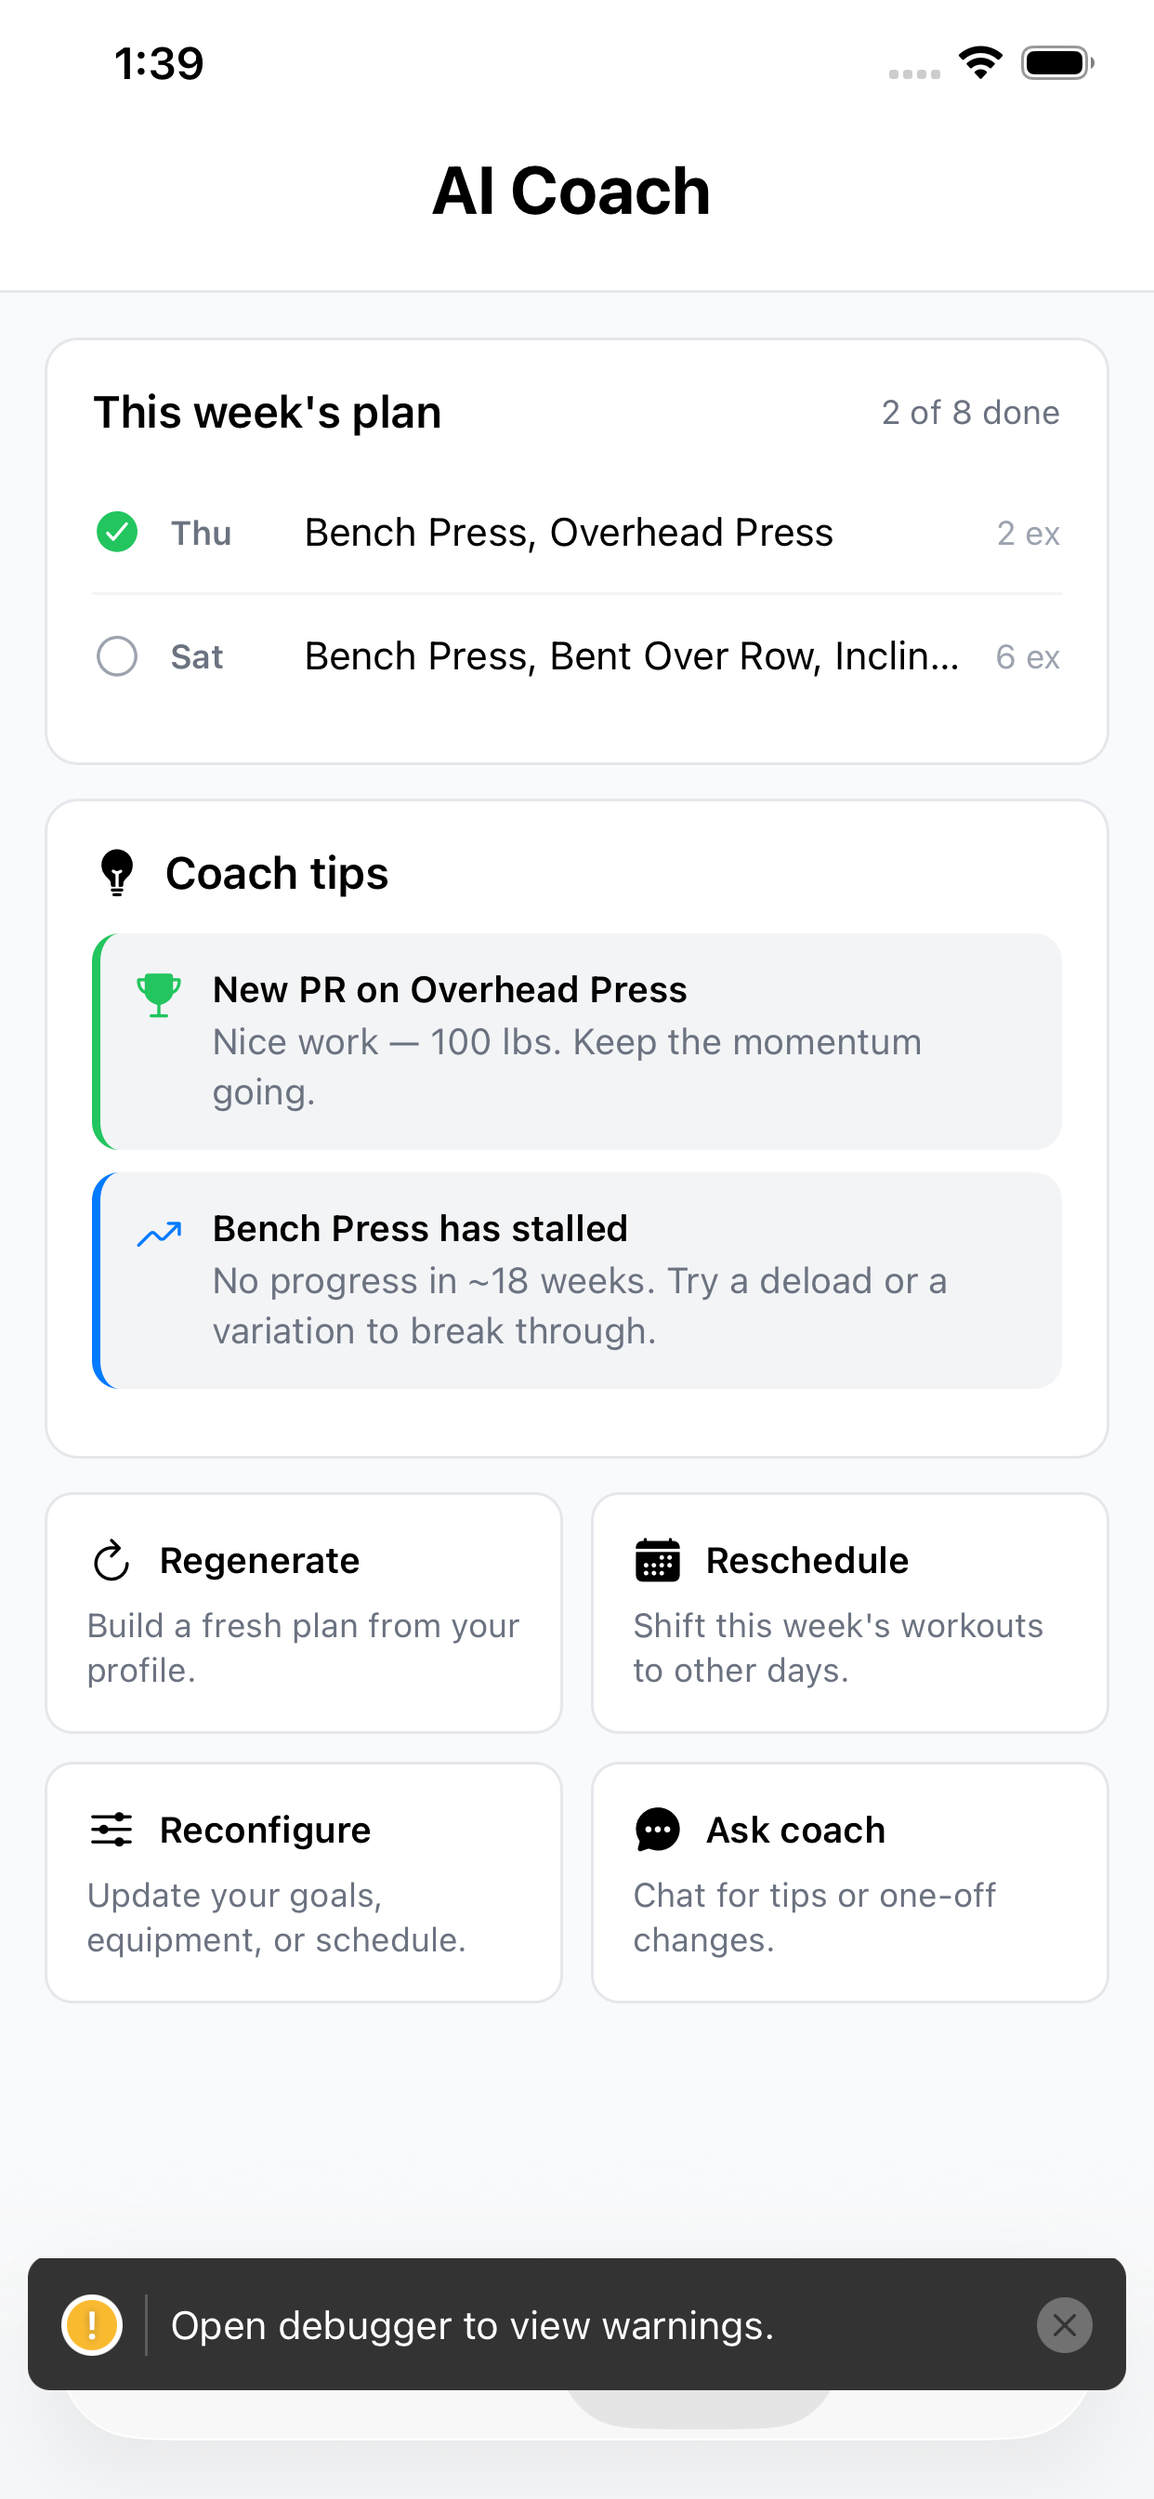
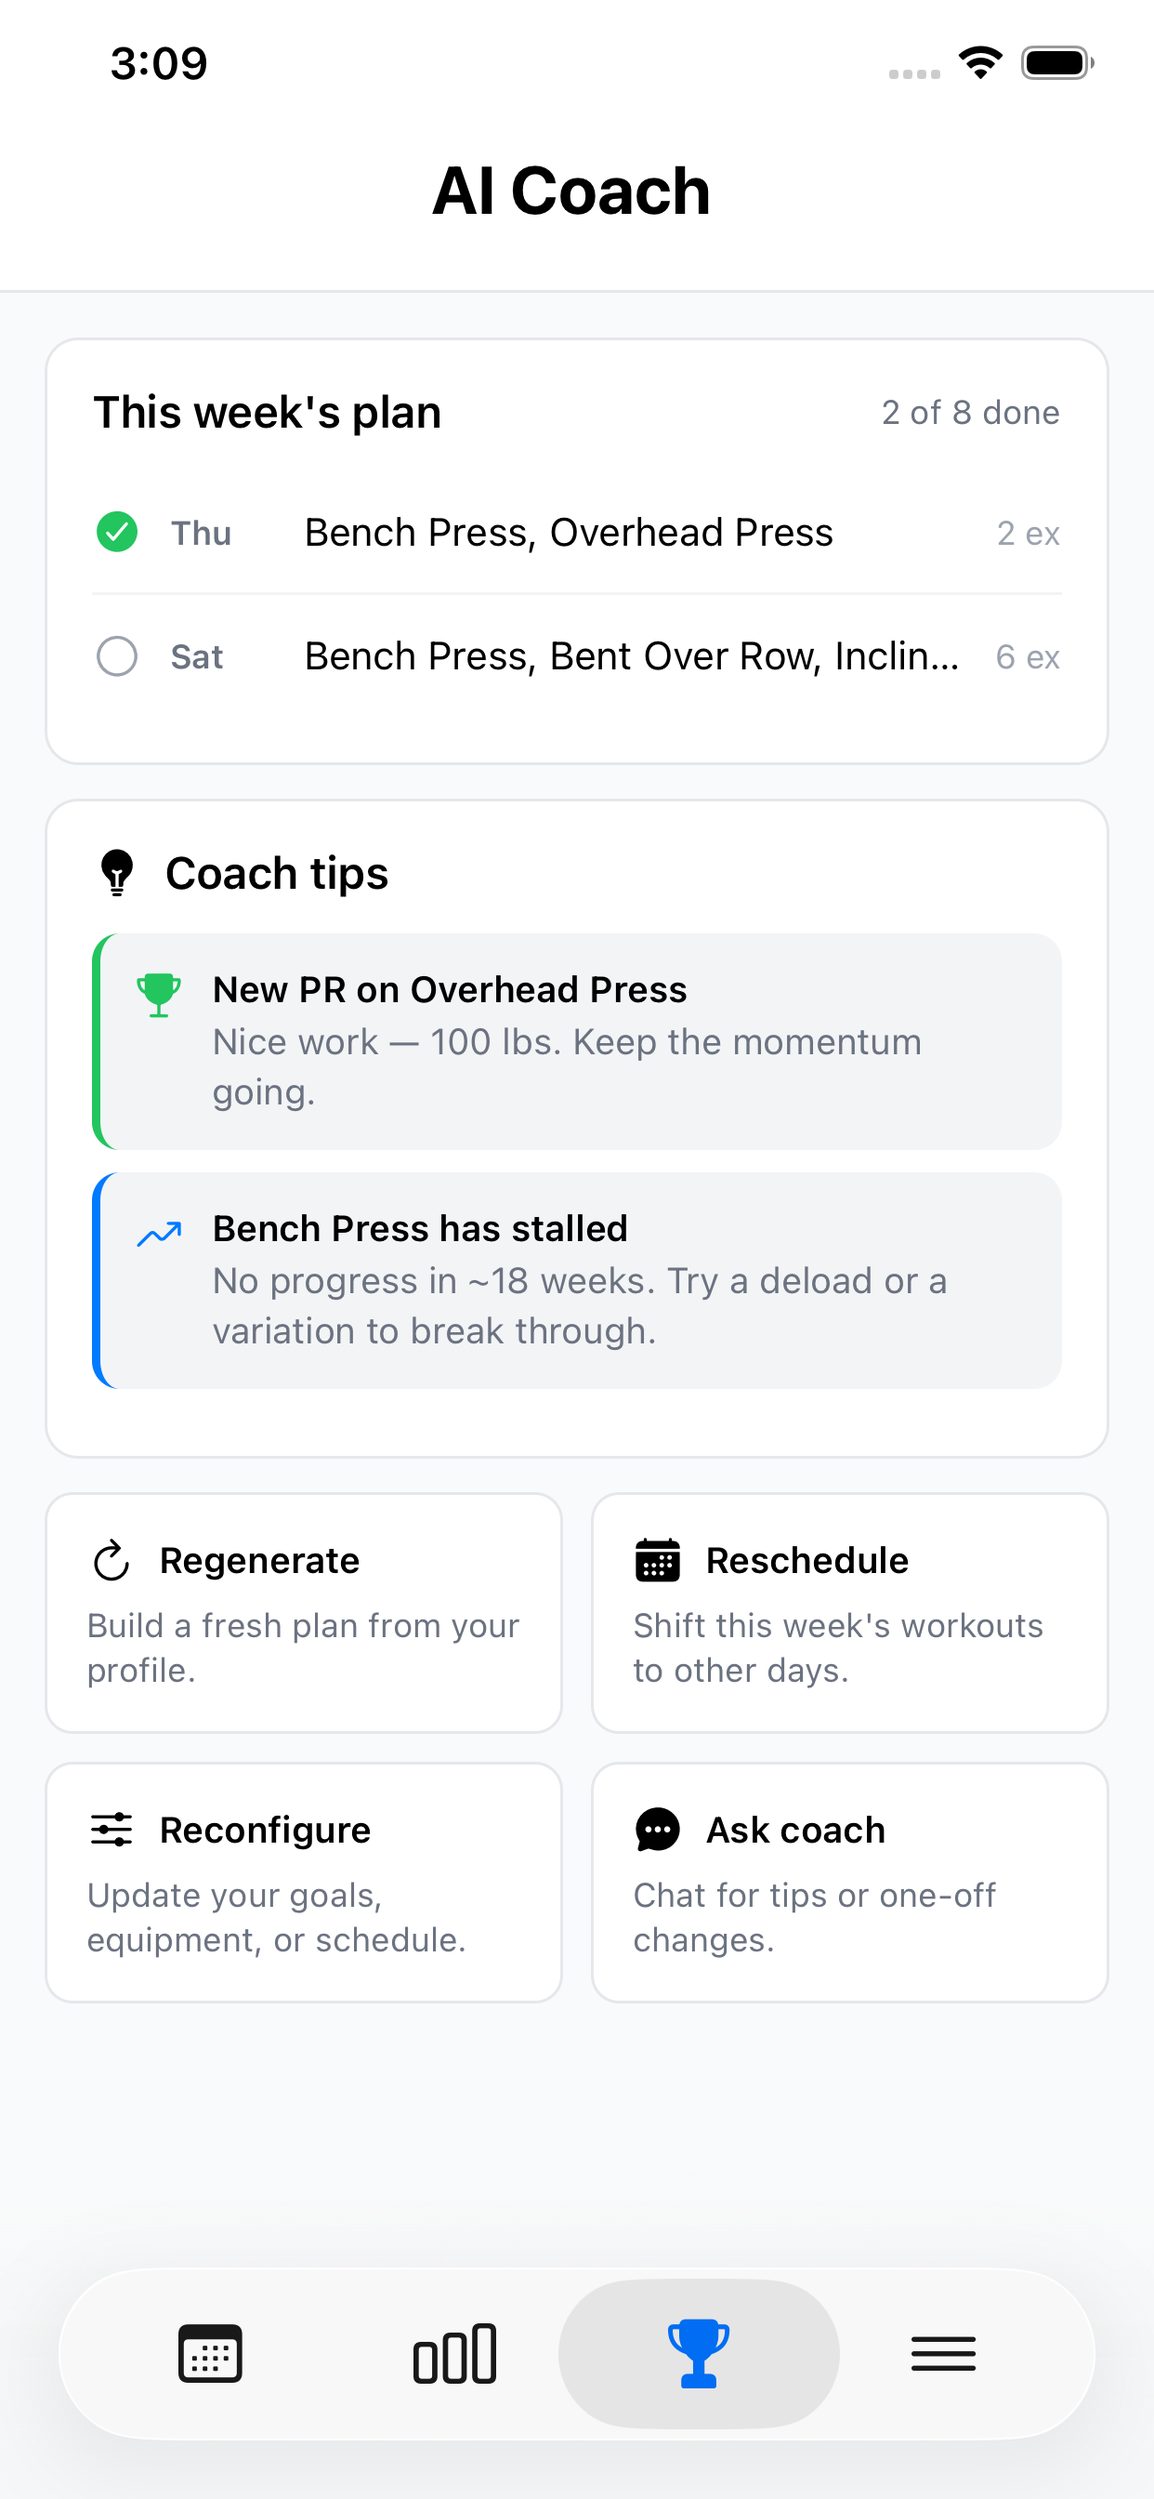
Polish Rhythm case study presentation

Changed region(s): [[0.0, 0.9062, 0.9791, 0.9688], [0.0918, 0.0, 0.1836, 0.0312]]

diff --git a/app/work/rhythm-fit/page.tsx b/app/work/rhythm-fit/page.tsx
@@ -10,7 +10,7 @@ import { getCaseStudy } from "@/lib/case-studies";
 export const metadata: Metadata = {
   title: "Rhythm Fit: AI workout planning from goals to execution",
   description:
-    "How I designed and built a React Native workout tracker with AI planning, accessible controls, and reliable workout execution.",
+    "A React Native workout tracker with AI planning, accessible controls, and reliable workout execution.",
 };
 
 const RhythmFitCaseStudy = () => {
@@ -20,16 +20,14 @@ const RhythmFitCaseStudy = () => {
     <CaseStudyLayout study={study}>
       <CaseSection title="Overview">
         <p>
-          Rhythm Fit is the workout app I wanted in the gym. It is quick
-          between sets, can plan a full training block, and stays out of the
-          way during a workout. You can ask the coach, schedule a plan, log
-          each set, and decide what comes next without switching apps.
+          Rhythm Fit is the workout app I wanted in the gym. It plans training
+          blocks, logs sets quickly, and stays out of the way during a workout.
+          The coach, schedule, and workout log live in one app.
         </p>
         <p>
           I designed and built the React Native app, interaction system, and
-          Node/Supabase backend. Gyms shaped the frontend decisions. Signal
-          drops, attention is limited, and most actions happen one-handed. The
-          UI uses clear hierarchy, large targets, and immediate feedback.
+          Node/Supabase backend. Real gym use shaped the UI: clear hierarchy,
+          large targets, immediate feedback, and reliable one-handed actions.
         </p>
       </CaseSection>
 
@@ -41,101 +39,93 @@ const RhythmFitCaseStudy = () => {
 
         <CaseSection title="AI that becomes product UI">
           <p>
-            Plan creation starts with a focused intake instead of an empty chat
-            box. It collects goals, experience, equipment, schedule, and
-            limitations. Users review every answer before generating a plan.
+            Plan creation starts with a focused intake for goals, experience,
+            equipment, schedule, and limitations. Users review every answer
+            before generating a plan.
           </p>
           <p>
-            The model returns a scheduling tool call. Typed application code
-            validates the result, expands recurring weeks, creates sets and
-            supersets, then saves it through the same Redux model used for
-            manual workouts. The result is normal, editable app data.
+            The model returns a scheduling tool call. Typed code validates it,
+            expands recurring weeks, creates sets and supersets, then saves
+            editable data through the same Redux model as manual workouts.
           </p>
           <RhythmScreenshot
             id="intake"
             alt="Rhythm Fit review screen for an AI-generated workout plan"
-            caption="The review step shows every planning input before generation. Users can fix a goal, schedule, equipment choice, or constraint without starting over."
+            caption="Every planning input is reviewable before generation, so changes never require starting over."
           />
         </CaseSection>
 
         <CaseSection title="A coach grounded in real training">
           <p>
             The coach uses recent workouts, records, stalled lifts, and the
-            active plan as context. A question like “How should I progress?”
-            gets an answer based on the weight and reps already on screen.
+            active plan. “How should I progress?” gets an answer based on the
+            weight and reps already on screen.
           </p>
           <p>
-            Guidance appears as it arrives. The UI handles loading, partial
-            answers, errors, and retries without jumping the scroll position.
-            Screen readers announce the completed answer once.
+            The UI handles partial answers, errors, and retries without jumping
+            the scroll position. Screen readers announce the final answer once.
           </p>
           <p>
-            The prompt system has a stable, versioned instruction layer and a
-            bounded snapshot of user context. User data stays isolated as
-            untrusted input. Long conversations are summarized, token budgets
-            scale by task, and scheduling output is validated before it reaches
-            the calendar.
+            The prompt system combines versioned instructions with a bounded
+            context snapshot. User data stays isolated as untrusted input.
+            Conversations are summarized, token budgets scale by task, and
+            scheduling output is validated before reaching the calendar.
           </p>
           <RhythmScreenshot
             id="chat"
             alt="Rhythm Fit AI Coach giving plan-aware progression advice"
-            caption="Answers render as they arrive while the scroll position stays put. Reduced motion and one final screen-reader announcement keep the chat calm."
+            caption="Answers arrive without moving the scroll position. Reduced motion and one final screen-reader announcement keep chat calm."
           />
         </CaseSection>
 
         <CaseSection title="Local-first where it matters">
           <p>
             The AI coach needs a connection. A saved workout does not. Redux
-            updates the screen immediately, AsyncStorage saves the change, and
-            account sync runs in the background. Failed writes wait in a retry
-            queue.
+            updates immediately, AsyncStorage persists the change, and account
+            sync runs in the background with a retry queue.
           </p>
           <p>
-            This boundary is intentional. Planning can show a network state.
-            Checking off a set should never stall because reception is bad.
+            Planning can show a network state. Checking off a set should never
+            stall because reception is bad.
           </p>
           <RhythmScreenshot
             id="execution"
             alt="Rhythm Fit workout execution screen"
-            caption="Set completion updates Redux and AsyncStorage immediately. Account sync follows in the background."
+            caption="Set completion updates Redux and AsyncStorage immediately. Account sync follows."
           />
         </CaseSection>
 
         <CaseSection title="Progress becomes useful feedback">
           <p>
-            Completed workouts feed the stats dashboard. It tracks records,
-            volume, consistency, muscle balance, and exercise history across
-            several time ranges.
+            Completed workouts feed records, volume, consistency, muscle
+            balance, and exercise history across several time ranges.
           </p>
           <p>
-            The coach uses the same data for timely tips. It can celebrate a
-            new PR or suggest a change when a lift stalls. Logging, analysis,
-            and planning stay in one loop.
+            The coach uses the same data to celebrate a PR or suggest a change
+            when a lift stalls. Logging, analysis, and planning stay connected.
           </p>
           <RhythmScreenshot
             id="stats"
             alt="Rhythm Fit workout analytics with records, volume, and consistency"
-            caption="PRs, volume trends, muscle balance, and top exercises all come from the activity records created during a workout."
+            caption="PRs, volume trends, muscle balance, and top exercises come directly from workout records."
           />
         </CaseSection>
 
         <CaseSection title="Accessibility is interaction design">
           <p>
-            Accessibility had its own acceptance criteria from the start. That
-            covered WCAG 2.2 AA targets and contrast, labels, roles, focus
-            order, visible state, and reduced motion. I tested each flow in
-            both themes and with dynamic coach output.
+            Accessibility had acceptance criteria from the start: WCAG 2.2 AA
+            targets and contrast, labels, roles, focus order, visible state,
+            and reduced motion. I tested every flow in both themes.
           </p>
           <p>
-            Large controls and clear completion states also help in a busy gym.
-            Rhythm can follow the system appearance or stay in Light or Dark
-            mode. Its interaction patterns follow Apple&apos;s Human Interface
-            Guidelines.
+            Large controls and clear states also help in a busy gym. Rhythm can
+            follow the system appearance or stay in Light or Dark mode. Its
+            patterns follow Apple&apos;s Human Interface Guidelines.
           </p>
           <RhythmScreenshot
             id="coach-dashboard"
             alt="Rhythm Fit coach dashboard with large labeled controls"
-            caption="Large labeled targets, clear state, AA contrast, and reduced motion support one-handed use between sets."
+            caption="Large targets, clear state, AA contrast, and reduced motion support one-handed use."
           />
         </CaseSection>
 
@@ -152,7 +142,7 @@ const RhythmFitCaseStudy = () => {
           <RhythmScreenshot
             id="calculator"
             alt="Rhythm Fit plate calculator showing a 185-pound barbell setup"
-            caption="The plate calculator uses configured barbells and available plates to build a per-side loading plan."
+            caption="Configured barbells and available plates produce a per-side loading plan."
           />
         </CaseSection>
       </RhythmThemeProvider>

diff --git a/components/site/rhythm-feature-gallery.tsx b/components/site/rhythm-feature-gallery.tsx
@@ -6,6 +6,8 @@ import {
   createContext,
   type ReactNode,
   useContext,
+  useEffect,
+  useRef,
   useState,
 } from "react";
 
@@ -60,10 +62,25 @@ const useRhythmTheme = () => {
 
 export const RhythmThemeProvider = ({ children }: { children: ReactNode }) => {
   const { theme: siteTheme } = useTheme();
-  const [localTheme, setLocalTheme] = useState<AppTheme | null>(null);
-  const theme: AppTheme = localTheme ?? (siteTheme === "dark" ? "dark" : "light");
+  const [localSelection, setLocalSelection] = useState<{
+    theme: AppTheme;
+    siteTheme: AppTheme;
+  } | null>(null);
+  const previousSiteTheme = useRef(siteTheme);
+  const theme: AppTheme =
+    localSelection?.siteTheme === siteTheme
+      ? localSelection.theme
+      : siteTheme;
 
-  const setTheme = (nextTheme: AppTheme) => setLocalTheme(nextTheme);
+  useEffect(() => {
+    if (previousSiteTheme.current !== siteTheme) {
+      previousSiteTheme.current = siteTheme;
+      setLocalSelection(null);
+    }
+  }, [siteTheme]);
+
+  const setTheme = (nextTheme: AppTheme) =>
+    setLocalSelection({ theme: nextTheme, siteTheme });
 
   return (
     <RhythmThemeContext.Provider value={{ theme, setTheme }}>
@@ -99,25 +116,24 @@ const screens = [
     id: "coach-dashboard",
     alt: "Rhythm Fit AI Coach dashboard showing this week's generated plan",
     caption:
-      "The coach dashboard puts the active plan beside useful signals such as a new PR or a stalled lift.",
+      "The active plan sits beside useful signals such as a new PR or stalled lift.",
   },
   {
     id: "calendar",
     alt: "Rhythm Fit weekly calendar populated with an AI-generated workout",
-    caption:
-      "A generated plan becomes dated exercises, supersets, and trackable progress.",
+    caption: "A generated plan becomes scheduled exercises and supersets.",
   },
   {
     id: "execution",
     alt: "Rhythm Fit bench press execution screen with AI-programmed sets, reps, and weight",
     caption:
-      "Each workout moves into a focused set-by-set view with a timer and plate calculator nearby.",
+      "A focused set-by-set view keeps the timer and plate calculator nearby.",
   },
   {
     id: "chat",
     alt: "Rhythm Fit AI Coach explaining how to progress a bench press workout",
     caption:
-      "The coach answers progression questions using the weight and reps already in the plan.",
+      "The coach answers using the weight and reps already in the plan.",
   },
 ] as const;
 
@@ -150,7 +166,7 @@ export const RhythmFeatureGallery = () => {
                 type="button"
                 aria-pressed={selected}
                 onClick={() => setTheme(option)}
-                className={`rounded-full px-4 py-2 text-sm font-bold capitalize transition-colors ${
+                className={`rounded-full px-4 py-2 text-sm font-bold capitalize transition-colors focus-visible:outline focus-visible:outline-2 focus-visible:outline-offset-2 focus-visible:outline-accent ${
                   selected
                     ? "bg-ink text-paper"
                     : "text-ink-muted hover:text-ink"

diff --git a/components/site/theme-provider.tsx b/components/site/theme-provider.tsx
@@ -1,6 +1,6 @@
 "use client";
 
-import { useEffect, type ReactNode } from "react";
+import { useEffect, useRef, type ReactNode } from "react";
 import { ThemeProvider, useTheme } from "@tutti-ui/shared";
 
 const STORAGE_KEY = "theme";
@@ -8,13 +8,10 @@ const STORAGE_KEY = "theme";
 type StoredPreference = "light" | "dark" | "system";
 
 /**
- * Read the saved preference synchronously so the provider's very first
- * render already resolves to the right theme. Restoring it in a mount
- * effect (the previous approach) meant the provider spent one paint on
- * its "system" default; anyone whose saved choice differed from their OS
- * setting saw the wrong theme flash in before the effect corrected it.
- * Returns "system" during SSR, where the class is set pre-paint by the
- * blocking script in app/layout.tsx anyway.
+ * Read the saved preference after hydration. The blocking script in
+ * app/layout.tsx applies the resolved class before paint, while keeping the
+ * provider's server and first client render deterministic avoids hydration
+ * mismatches for components that consume the theme context.
  */
 const getStoredPreference = (): StoredPreference => {
   if (typeof window === "undefined") return "system";
@@ -42,7 +39,7 @@ interface ThemeChildrenProps {
 export const SiteThemeProvider = ({ children }: ThemeChildrenProps) => {
   return (
     <ThemeProvider
-      initialPreference={getStoredPreference()}
+      initialPreference="light"
       onPreferenceChange={(preference) => {
         try {
           window.localStorage.setItem(STORAGE_KEY, preference);
@@ -57,7 +54,14 @@ export const SiteThemeProvider = ({ children }: ThemeChildrenProps) => {
 };
 
 const ThemeSync = ({ children }: ThemeChildrenProps) => {
-  const { theme } = useTheme();
+  const { theme, setPreference } = useTheme();
+  const hasRestoredPreference = useRef(false);
+
+  useEffect(() => {
+    if (hasRestoredPreference.current) return;
+    hasRestoredPreference.current = true;
+    setPreference(getStoredPreference());
+  }, [setPreference]);
 
   // Keep Tailwind's `.dark` class in step with the resolved theme. On first
   // run this matches what the layout's pre-paint script already set, so it

diff --git a/components/site/case-study.tsx b/components/site/case-study.tsx
@@ -10,7 +10,6 @@ import {
   CardHeader,
   Divider,
   VStack,
-  HStack,
 } from "@/components/tutti";
 import type { CaseStudy } from "@/lib/case-studies";
 import {
@@ -97,19 +96,20 @@ export const CaseStudyLayout = ({ study, children }: CaseStudyLayoutProps) => {
               </ul>
             </div>
             <Divider className="dark:border-[#3a3a3a]" />
-            <HStack spacing="md" wrap={true}>
+            <ul className="flex flex-wrap gap-x-6 gap-y-3" aria-label="Links">
               {study.links.map((link) => (
-                <a
-                  key={link.href}
-                  href={link.href}
-                  target="_blank"
-                  rel="noreferrer"
-                  className="font-semibold text-ink-soft underline decoration-accent-cool decoration-2 underline-offset-4 transition-colors hover:text-accent-quiet dark:text-ink"
-                >
-                  {link.label} ↗
-                </a>
+                <li key={link.href}>
+                  <a
+                    href={link.href}
+                    target="_blank"
+                    rel="noreferrer"
+                    className="font-semibold text-ink-soft underline decoration-accent-cool decoration-2 underline-offset-4 transition-colors hover:text-accent-quiet dark:text-ink"
+                  >
+                    {link.label} ↗
+                  </a>
+                </li>
               ))}
-            </HStack>
+            </ul>
           </VStack>
         </CardContent>
       </SurfaceCard>
